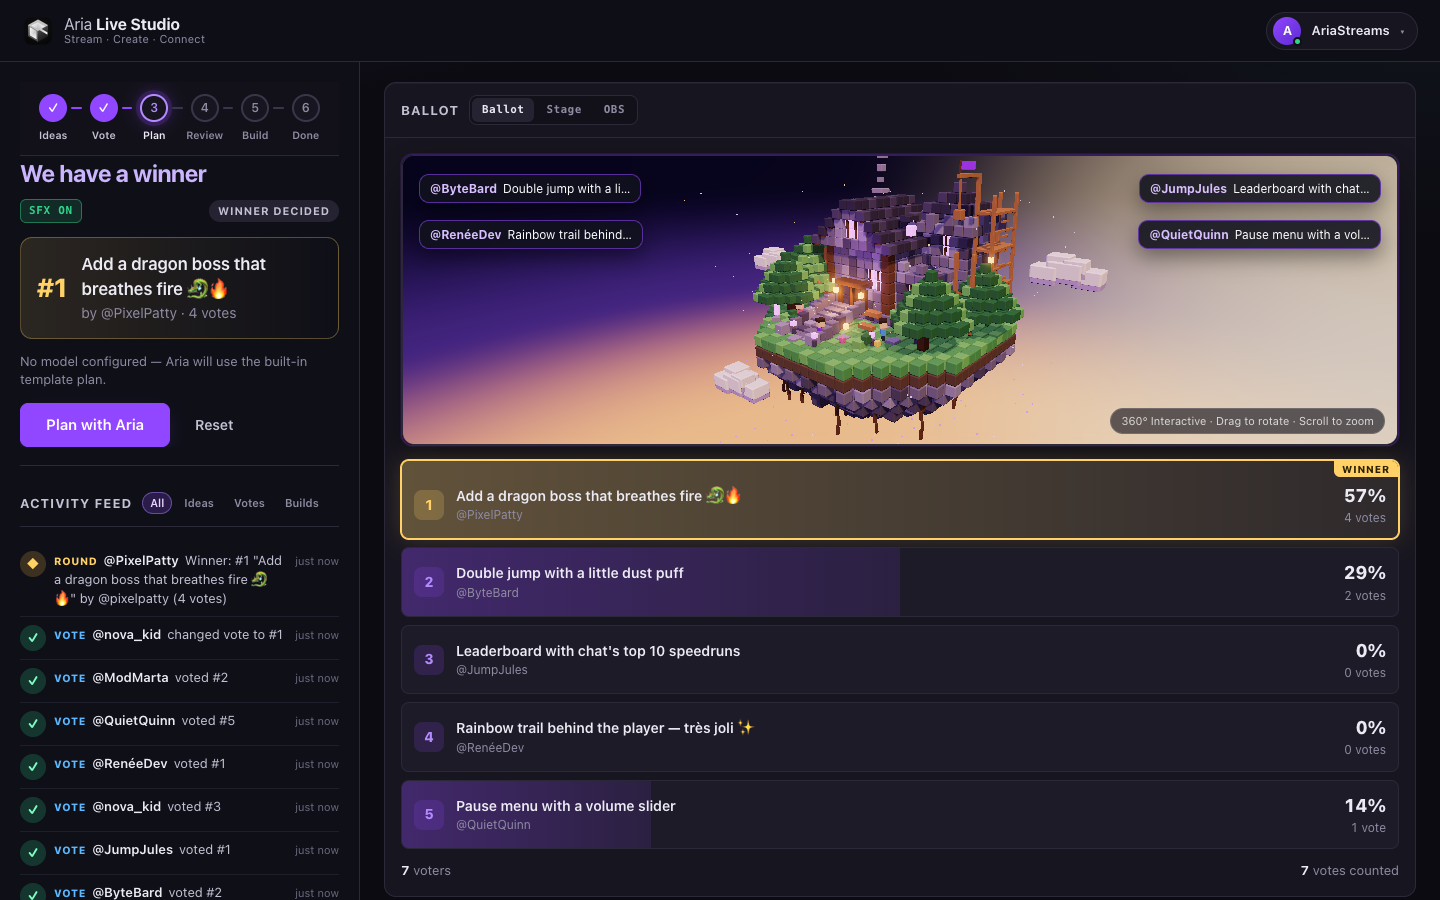
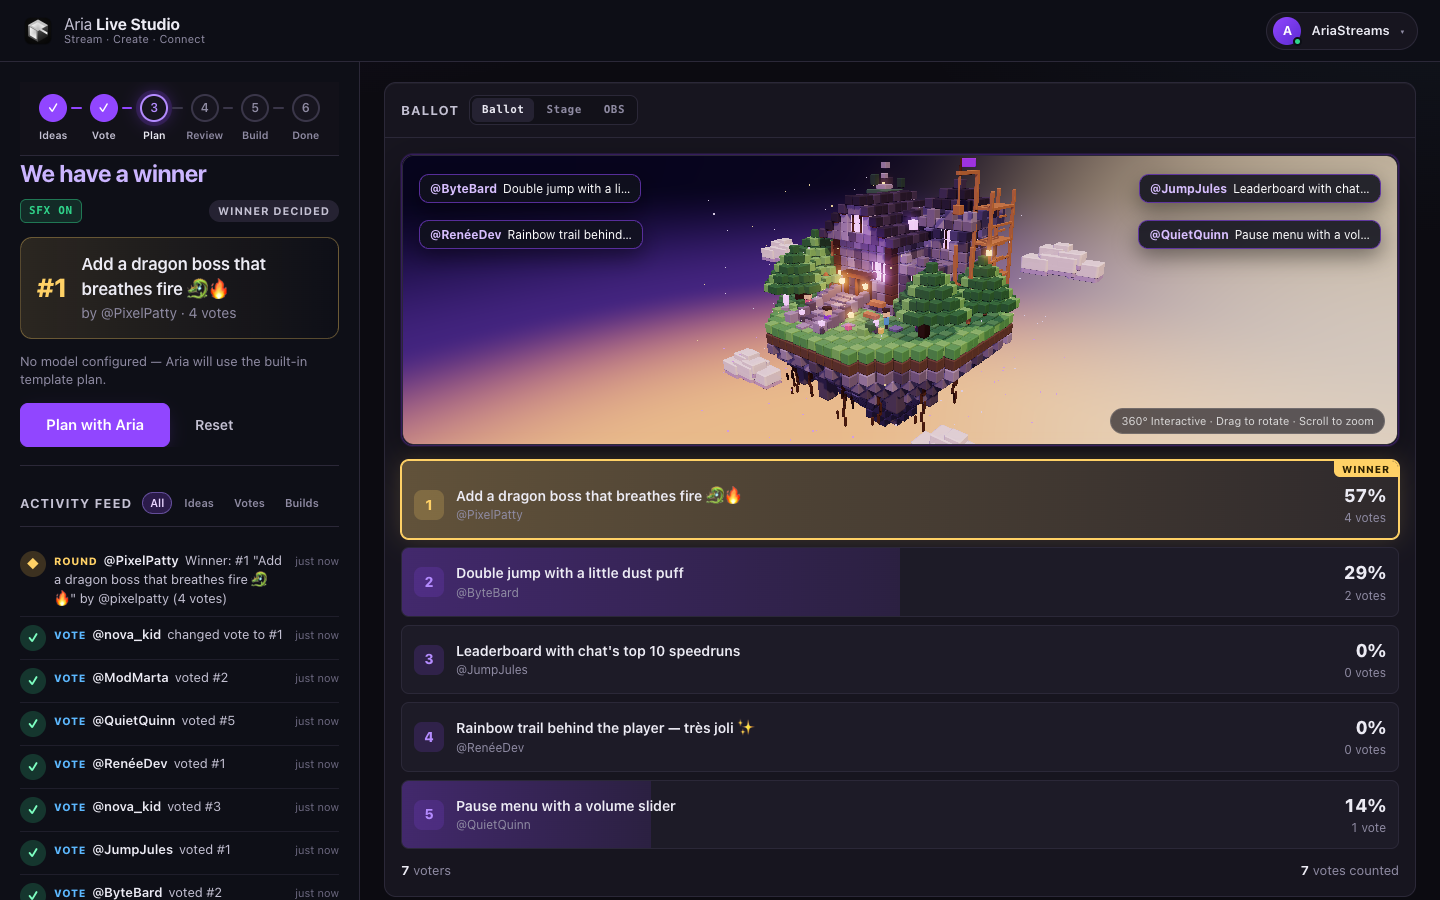
feat(web): deepen 3D floating cliff cone, branched roots, distant island & plush clouds

Changed region(s): [[0.5, 0.1867, 0.7812, 0.4978]]

diff --git a/packages/web/src/dashboard/LiveStageCanvas.tsx b/packages/web/src/dashboard/LiveStageCanvas.tsx
@@ -140,12 +140,12 @@ export function LiveStageCanvas({
     const scene = new THREE.Scene();
     scene.fog = new THREE.FogExp2(0x22173b, 0.0055);
 
-    // Classic isometric pitch matching voxel-workshop.jpg (centered optically with headroom & root room)
+    // Classic isometric pitch matching voxel-workshop.jpg (frames deep cliff cone, roots, and castle spire)
     const camera = new THREE.PerspectiveCamera(36, width / height, 0.1, 160);
     if (compact) {
-      camera.position.set(15.6, 8.0, 16.0);
+      camera.position.set(16.2, 8.2, 16.6);
     } else {
-      camera.position.set(14.6, 7.5, 15.0);
+      camera.position.set(15.4, 7.6, 15.8);
     }
 
     const composer = new EffectComposer(renderer);
@@ -162,7 +162,7 @@ export function LiveStageCanvas({
     controls.minDistance = 7.0;
     controls.maxDistance = 26;
     controls.maxPolarAngle = Math.PI * 0.49;
-    controls.target.set(0.55, compact ? 1.05 : 0.95, -0.45);
+    controls.target.set(0.45, compact ? 0.65 : 0.45, -0.35);
 
     // Twilight sky dome mapped to the isometric camera view (dir.y spans -0.60 at bottom to +0.05 at top)
     const skyGeo = new THREE.SphereGeometry(76, 24, 16);
@@ -249,14 +249,14 @@ export function LiveStageCanvas({
     const mossMat = new THREE.MeshStandardMaterial({ color: 0x78bd63, roughness: 0.76 });
     const pineMat = new THREE.MeshStandardMaterial({ color: 0x397644, roughness: 0.8 });
     const woodMat = new THREE.MeshStandardMaterial({ color: 0xb67b48, roughness: 0.76 });
-    const darkWoodMat = new THREE.MeshStandardMaterial({ color: 0x734828, roughness: 0.84 });
-    const roofMat = new THREE.MeshStandardMaterial({ color: 0x453e56, roughness: 0.72 });
-    const roofLightMat = new THREE.MeshStandardMaterial({ color: 0x5c5371, roughness: 0.7 });
+    const darkWoodMat = new THREE.MeshStandardMaterial({ color: 0x5e381e, roughness: 0.86 });
+    const roofMat = new THREE.MeshStandardMaterial({ color: 0x352e46, roughness: 0.72 });
+    const roofLightMat = new THREE.MeshStandardMaterial({ color: 0x4f4663, roughness: 0.7 });
     const crystalMat = new THREE.MeshStandardMaterial({
-      color: 0xe6c8ff,
-      emissive: 0x9146ff,
-      emissiveIntensity: 1.55,
-      roughness: 0.2,
+      color: 0xf0dbff,
+      emissive: 0xa855f7,
+      emissiveIntensity: 1.75,
+      roughness: 0.18,
     });
     const lanternMat = new THREE.MeshStandardMaterial({
       color: 0xffe49e,
@@ -332,20 +332,23 @@ export function LiveStageCanvas({
           else grassSpecs.push({ x, y: 0.0, z });
         }
 
-        // Deep craggy cliff underside matching voxel-workshop.jpg (steep outer walls + deep tapered cone)
+        // Deep craggy inverted-cone cliff underside matching voxel-workshop.jpg
         if (dist <= 16) dirtSpecs.push({ x, y: -0.5, z });
         if (dist <= 16 && (maxC <= 10 || (gx + gz) % 2 === 0)) pushStone(x, -1.0, z);
         if (dist <= 15 && maxC <= 10) pushStone(x, -1.5, z);
         if (dist <= 14 && maxC <= 9) stoneDarkSpecs.push({ x, y: -2.0, z });
-        if (dist <= 12 && maxC <= 8) pushStone(x, -2.5, z);
-        if (dist <= 10 && maxC <= 7) stoneDarkSpecs.push({ x, y: -3.0, z });
-        if (dist <= 8 && maxC <= 5) stoneDarkSpecs.push({ x, y: -3.5, z });
-        if (dist <= 5) stoneDarkSpecs.push({ x, y: -4.0, z });
-        if (dist <= 3) stoneDarkSpecs.push({ x, y: -4.5, z });
-        if (dist <= 1) stoneDarkSpecs.push({ x, y: -5.0, z });
+        if (dist <= 13 && maxC <= 8) pushStone(x, -2.5, z);
+        if (dist <= 11 && maxC <= 7) stoneDarkSpecs.push({ x, y: -3.0, z });
+        if (dist <= 9 && maxC <= 6) stoneDarkSpecs.push({ x, y: -3.5, z });
+        if (dist <= 7 && maxC <= 5) stoneDarkSpecs.push({ x, y: -4.0, z });
+        if (dist <= 5 && maxC <= 4) stoneDarkSpecs.push({ x, y: -4.5, z });
+        if (dist <= 4 && maxC <= 3) stoneDarkSpecs.push({ x, y: -5.0, z });
+        if (dist <= 3) stoneDarkSpecs.push({ x, y: -5.5, z });
+        if (dist <= 2) stoneDarkSpecs.push({ x, y: -6.0, z });
+        if (dist <= 1) stoneDarkSpecs.push({ x, y: -6.5, z });
       }
     }
-    // Irregular corner rock stalactites, hanging moss lips & dangling wooden cliff roots
+    // Irregular corner rock stalactites, hanging moss lips & branched wooden cliff roots
     for (const [rx, rz] of [
       [-4.0, 2.5],
       [4.0, 2.0],
@@ -354,33 +357,45 @@ export function LiveStageCanvas({
       [0.0, 4.5],
       [-2.0, 4.2],
       [3.2, 3.4],
+      [0.2, 0.2],
     ] as const) {
-      stoneDarkSpecs.push({ x: rx, y: -2.2, z: rz, sx: 1.3, sy: 2.2, sz: 1.3 });
-      mossSpecs.push({ x: rx, y: -0.35, z: rz, sx: 0.95, sy: 1.2, sz: 0.95 });
+      stoneDarkSpecs.push({ x: rx, y: -2.5, z: rz, sx: 1.4, sy: 2.8, sz: 1.4 });
+      mossSpecs.push({ x: rx, y: -0.45, z: rz, sx: 1.0, sy: 1.4, sz: 1.0 });
     }
-    // Hanging roots dangling below the floating island (signature detail from 2D reference)
+    // Branched primary + secondary roots dangling below the floating island
     for (const [vx, vz, len] of [
-      [-4.4, 2.8, 4],
-      [-3.6, 3.8, 5],
-      [-2.2, 4.6, 4],
-      [-0.8, 4.9, 3],
-      [1.2, 4.7, 5],
-      [2.8, 4.1, 4],
-      [4.2, 2.8, 5],
-      [4.8, 1.2, 3],
-      [-4.8, 0.8, 4],
-      [0.4, 3.4, 5],
+      [-4.4, 2.8, 5],
+      [-3.6, 3.8, 6],
+      [-2.2, 4.6, 5],
+      [-0.8, 4.9, 4],
+      [1.2, 4.7, 6],
+      [2.8, 4.1, 5],
+      [4.2, 2.8, 6],
+      [4.8, 1.2, 4],
+      [-4.8, 0.8, 5],
+      [0.4, 3.4, 6],
     ] as const) {
       for (let k = 0; k < len; k++) {
         timberSpecs.push({
-          x: vx + (k % 2) * 0.08,
+          x: vx + (k % 2) * 0.1,
           y: -1.6 - k * 0.46,
           z: vz,
-          sx: 0.24,
+          sx: k < 2 ? 0.36 : 0.22,
           sy: 0.98,
-          sz: 0.24,
+          sz: k < 2 ? 0.36 : 0.22,
         });
+        if (k === 2 || k === 4) {
+          timberSpecs.push({
+            x: vx + (k === 2 ? 0.26 : -0.24),
+            y: -1.75 - k * 0.46,
+            z: vz + 0.14,
+            sx: 0.18,
+            sy: 0.85,
+            sz: 0.18,
+          });
+        }
       }
+      mossSpecs.push({ x: vx, y: -0.95, z: vz, sx: 0.55, sy: 1.1, sz: 0.55 });
     }
 
     // 2. Grand 7-Step Front Stone Staircase + Cheek Parapet Walls
@@ -800,19 +815,30 @@ export function LiveStageCanvas({
     petGroup.visible = false;
     islandGroup.add(petGroup);
 
-    // 9. Cohesive Stepped 3D Voxel Cloud Clusters + Distant Floating Mini-Island (matching voxel-workshop.jpg)
+    // 9. Cohesive Stepped 3D Voxel Cloud Clusters + Distant Upper-Left Mini-Island
     const bgIslands = new THREE.Group();
-    const cloudLightMat = new THREE.MeshStandardMaterial({ color: 0xf7ece8, roughness: 0.72 });
-    const cloudShadeMat = new THREE.MeshStandardMaterial({ color: 0xbba8d4, roughness: 0.78 });
+    const cloudLightMat = new THREE.MeshStandardMaterial({
+      color: 0xf7ece8,
+      roughness: 0.72,
+      transparent: true,
+      opacity: 0.92,
+    });
+    const cloudShadeMat = new THREE.MeshStandardMaterial({
+      color: 0xbba8d4,
+      roughness: 0.78,
+      transparent: true,
+      opacity: 0.86,
+    });
     const cloudTopSpecs: VoxelSpec[] = [];
     const cloudBotSpecs: VoxelSpec[] = [];
     const addVoxelCloud = (cx: number, cy: number, cz: number, scale = 1) => {
       const puffs = [
-        [0, 0.25, 0, 2.8, 1.35, 2.1],
-        [-0.75, 0.1, 0.15, 2.2, 1.1, 1.8],
-        [0.8, 0.08, -0.1, 2.2, 1.1, 1.8],
-        [-0.3, 0.52, -0.05, 1.9, 1.1, 1.6],
-        [0.35, 0.45, 0.1, 1.75, 1.0, 1.5],
+        [0, 0.22, 0, 3.0, 1.25, 2.2],
+        [-0.85, 0.1, 0.15, 2.3, 1.05, 1.8],
+        [0.9, 0.08, -0.1, 2.3, 1.05, 1.8],
+        [-0.35, 0.52, -0.05, 2.0, 1.0, 1.6],
+        [0.4, 0.46, 0.1, 1.85, 0.95, 1.5],
+        [0.0, 0.72, 0.0, 1.25, 0.78, 1.15],
       ] as const;
       for (const [dx, dy, dz, sx, sy, sz] of puffs) {
         cloudTopSpecs.push({
@@ -825,20 +851,68 @@ export function LiveStageCanvas({
         });
         cloudBotSpecs.push({
           x: cx + dx * scale,
-          y: cy + (dy - 0.28) * scale,
+          y: cy + (dy - 0.26) * scale,
           z: cz + dz * scale,
           sx: sx * 0.98 * scale,
-          sy: sy * 0.62 * scale,
+          sy: sy * 0.58 * scale,
           sz: sz * 0.98 * scale,
         });
       }
     };
-    addVoxelCloud(-7.6, 1.9, 0.6, 1.1);
-    addVoxelCloud(7.6, 2.8, -3.2, 1.15);
-    addVoxelCloud(-6.8, -4.1, 4.2, 1.25);
-    addVoxelCloud(6.6, -3.9, 3.8, 1.2);
+    addVoxelCloud(-7.6, 1.9, 0.6, 1.15);
+    addVoxelCloud(7.6, 2.8, -3.2, 1.2);
+    addVoxelCloud(-6.8, -4.1, 4.2, 1.3);
+    addVoxelCloud(6.6, -3.9, 3.8, 1.25);
     bgIslands.add(buildVoxelInstances(voxelGeo, cloudShadeMat, cloudBotSpecs, false, false));
     bgIslands.add(buildVoxelInstances(voxelGeo, cloudLightMat, cloudTopSpecs, false, false));
+
+    // Distant upper-left atmospheric mini floating island (silhouette depth from 2D reference)
+    const farGrassMat = new THREE.MeshStandardMaterial({ color: 0x456b5a, roughness: 0.9 });
+    const farStoneMat = new THREE.MeshStandardMaterial({ color: 0x3b3354, roughness: 0.92 });
+    const farPineMat = new THREE.MeshStandardMaterial({ color: 0x2f4f46, roughness: 0.9 });
+    bgIslands.add(
+      buildVoxelInstances(
+        voxelGeo,
+        farGrassMat,
+        [{ x: -13.5, y: 4.5, z: -15.5, sx: 5.5, sy: 0.9, sz: 5.2 }],
+        false,
+        false,
+      ),
+    );
+    bgIslands.add(
+      buildVoxelInstances(
+        voxelGeo,
+        farStoneMat,
+        [
+          { x: -13.5, y: 3.6, z: -15.5, sx: 4.6, sy: 2.2, sz: 4.4 },
+          { x: -13.5, y: 2.2, z: -15.5, sx: 2.8, sy: 2.0, sz: 2.8 },
+          { x: -13.0, y: 5.4, z: -15.3, sx: 1.8, sy: 1.8, sz: 1.8 },
+        ],
+        false,
+        false,
+      ),
+    );
+    bgIslands.add(
+      buildVoxelInstances(
+        voxelGeo,
+        farPineMat,
+        [
+          { x: -14.8, y: 5.5, z: -15.6, sx: 1.3, sy: 2.2, sz: 1.3 },
+          { x: -12.1, y: 5.3, z: -16.2, sx: 1.1, sy: 1.8, sz: 1.1 },
+        ],
+        false,
+        false,
+      ),
+    );
+    bgIslands.add(
+      buildVoxelInstances(
+        voxelGeo,
+        lanternMat,
+        [{ x: -12.9, y: 5.3, z: -14.7, sx: 0.45, sy: 0.45, sz: 0.45 }],
+        false,
+        false,
+      ),
+    );
     scene.add(bgIslands);
 
     // Dual-color floating violet + warm gold fireflies + dense under-island violet glow motes
